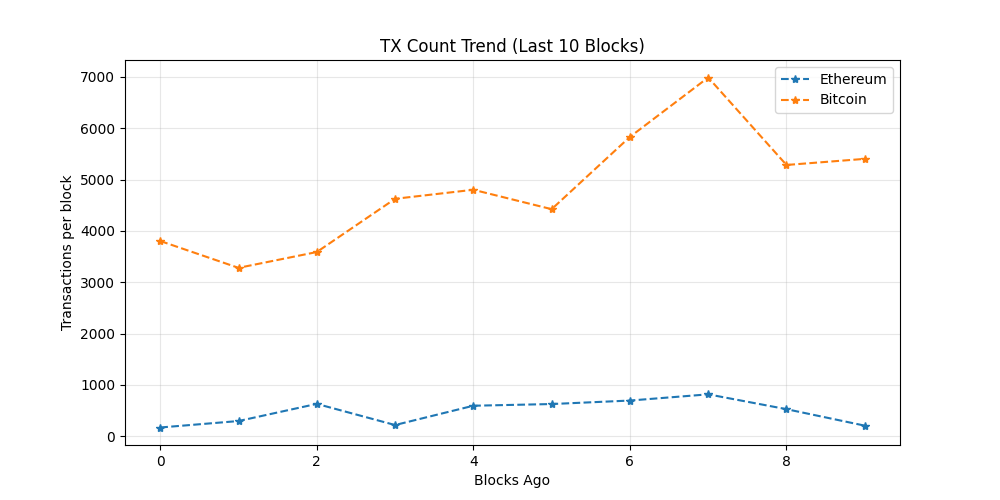
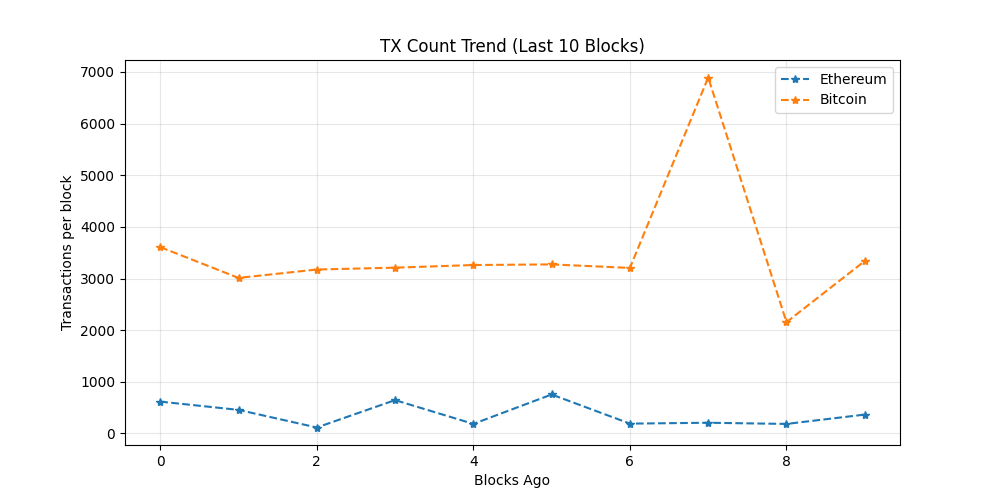
chore: update on-chain dashboard

diff --git a/README.md b/README.md
@@ -19,7 +19,7 @@ The README itself acts as the dashboard and is regenerated automatically on a 6 
 demonstrating a production-style, infrastructure-focused observability workflow rather
 than a traditional UI-driven approach.
 
-_Last updated: 2026-07-14 19:41 UTC_
+_Last updated: 2026-07-15 03:31 UTC_
 
 ## API Usage (GetBlock.io)
 - Calls used: **24**
@@ -27,8 +27,8 @@ _Last updated: 2026-07-14 19:41 UTC_
 ## Network Metrics
 | Chain | Block Height | TX Count | TPS (10 blk avg) | Block Util | Avg Fee |
 |------|-------------|----------|------------------|------------|---------|
-| Ethereum | 25533035 | 207 | 17.25 | 18.25% | 0.1 Gwei |
-| Bitcoin | 958054 | 5404 | 11.01 | 99.79% | N/A |
+| Ethereum | 25535378 | 366 | 30.5 | 38.46% | 0.1 Gwei |
+| Bitcoin | 958091 | 3339 | 15.11 | 99.79% | N/A |
 
 ## Visuals
 ### Transactions Trend
@@ -43,11 +43,11 @@ _Last updated: 2026-07-14 19:41 UTC_
 ## Whale Alerts (latest block)
 - Transaction hashes are truncated for readability.
 - Full hashes are available in `dashboards/metrics.json`
-- Bitcoin | 276.38 BTC | `8641130c56cd…`
-- Bitcoin | 139.66 BTC | `a6e8a1c152a9…`
-- Bitcoin | 1481.72 BTC | `23f90e9c2d40…`
-- Bitcoin | 107.0 BTC | `19fa4783d71e…`
-- Bitcoin | 118.67 BTC | `10c4ee2e192f…`
+- Bitcoin | 105.79 BTC | `6c11d59c0f06…`
+- Bitcoin | 101.5 BTC | `55a6d3d80d28…`
+- Bitcoin | 2939.6 BTC | `73d71bfe1685…`
+- Bitcoin | 131.94 BTC | `16262015b026…`
+- Bitcoin | 558.88 BTC | `2e24bdab5b45…`
 
 ## Run locally
 
